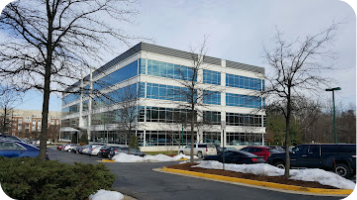
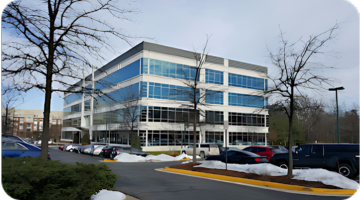
incresing image quality, allignment in clients

diff --git a/src/components/Home/about.js b/src/components/Home/about.js
@@ -34,7 +34,7 @@ export default function AboutUs() {
           {/* Card 2 */}
           <div className=" overflow-hidden">
             <div className="w-24 h-24 bg-white rounded-full flex items-center justify-center mx-auto mb-4">
-              <img src="/home_image/superFast.png" alt="superFast" className="w-16 h-16 rounded-full object-cover object-center" />
+              <img src="home_image/superFast.png" alt="superFast" className="w-16 h-16 rounded-full object-cover object-center" />
             </div>
             <div className="m-2 p-4">
               <h3 className="text-xl font-semibold mb-2 text-center transform transition-transform hover:translate-y-[-4px]">Super Fast </h3>

diff --git a/src/pages/Clients.jsx b/src/pages/Clients.jsx
@@ -18,7 +18,7 @@ const logos = [
   { name_company: 'Client 2', logo: '/clients/panera_bread.png', alt: 'PANERA BREAD', name: "PANERA BREAD" },
   { name_company: 'Client 2', logo: '/clients/ritz_carlton.jpeg', alt: 'RITZ CARLTON', name: "RITZ CARLTON" },
   { name_company: 'Client 2', logo: '/clients/service_now.png', alt: 'SERVICENOW', name: "SERVICENOW" },
-  { name_company: 'Client 2', logo: '/clients/TRC.webp', alt: 'TRC HEALTH CARE', name: "TRC HEALTH CARE " },
+  { name_company: 'Client 2', logo: '/clients/TRC.png', alt: 'TRC HEALTH CARE', name: "TRC HEALTH CARE " },
   { name_company: 'Client 2', logo: '/clients/verizons.png', alt: 'VERIZON', name: "VERIZON" },
 
 ];

diff --git a/src/components/Navbar/Navbar.jsx b/src/components/Navbar/Navbar.jsx
@@ -14,7 +14,7 @@ function Navbar() {
     <nav className="bg-white text-[#0079A0] font-bold shadow sticky top-0 z-10">
       <div className="container mx-auto px-4 py-5 flex items-center justify-between">
         <Link to="/" onClick={closeMenu}>
-          <img src="logos/refyndata_logo_linear.svg" alt="refyndata-logo" className="h-12" />
+          <img src="/logos/refyndata_logo_linear.svg" alt="refyndata-logo" className="h-12" />
         </Link>
         <div className="hidden md:flex md:space-x-1 lg:space-x-4">
           <Link to="/" className="hover:bg-gray-200 px-2 lg:px-3 py-2 rounded-md">Home</Link>

diff --git a/src/pages/Contact.jsx b/src/pages/Contact.jsx
@@ -59,7 +59,7 @@ export default function Contact() {
           <Link to="https://maps.app.goo.gl/8VhdYJpt6cyVfLPn6" target="_blank" rel="noopener noreferrer">
           <div className="mx-[30px]">
             <img
-              src="../contact_us/virginia_meryland.jpeg"
+              src="/contact_us/virginia_meryland.png"
               alt="nnovative Cente"
               className=" w-60 h-40 rounded-lg shadow-md mb-2 items-center"
             />
